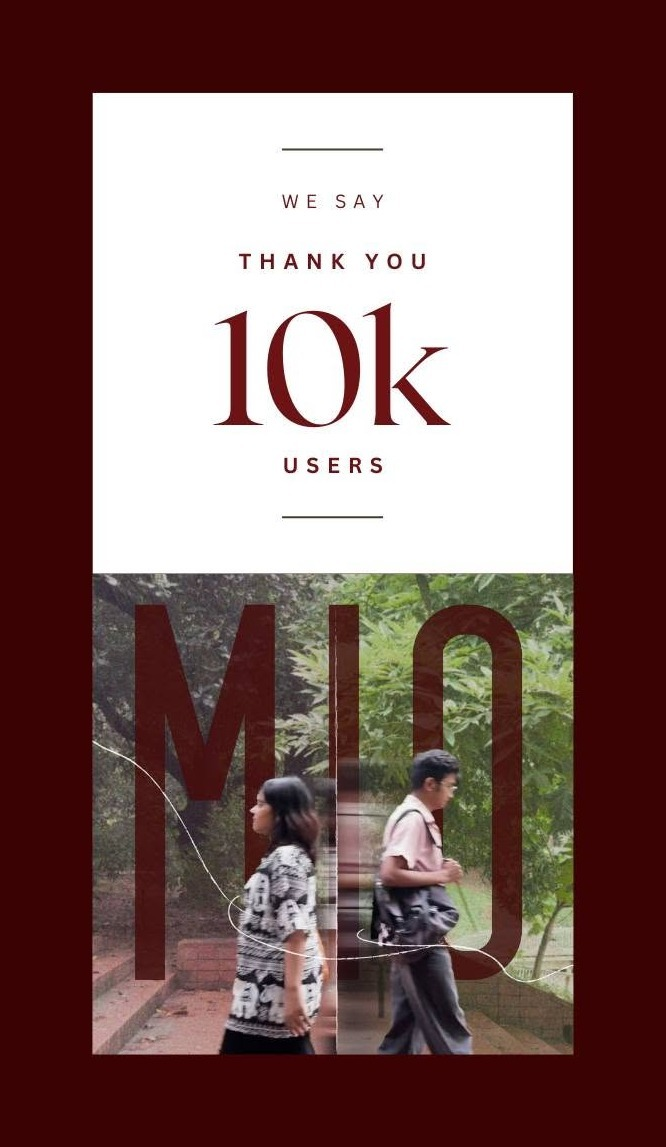
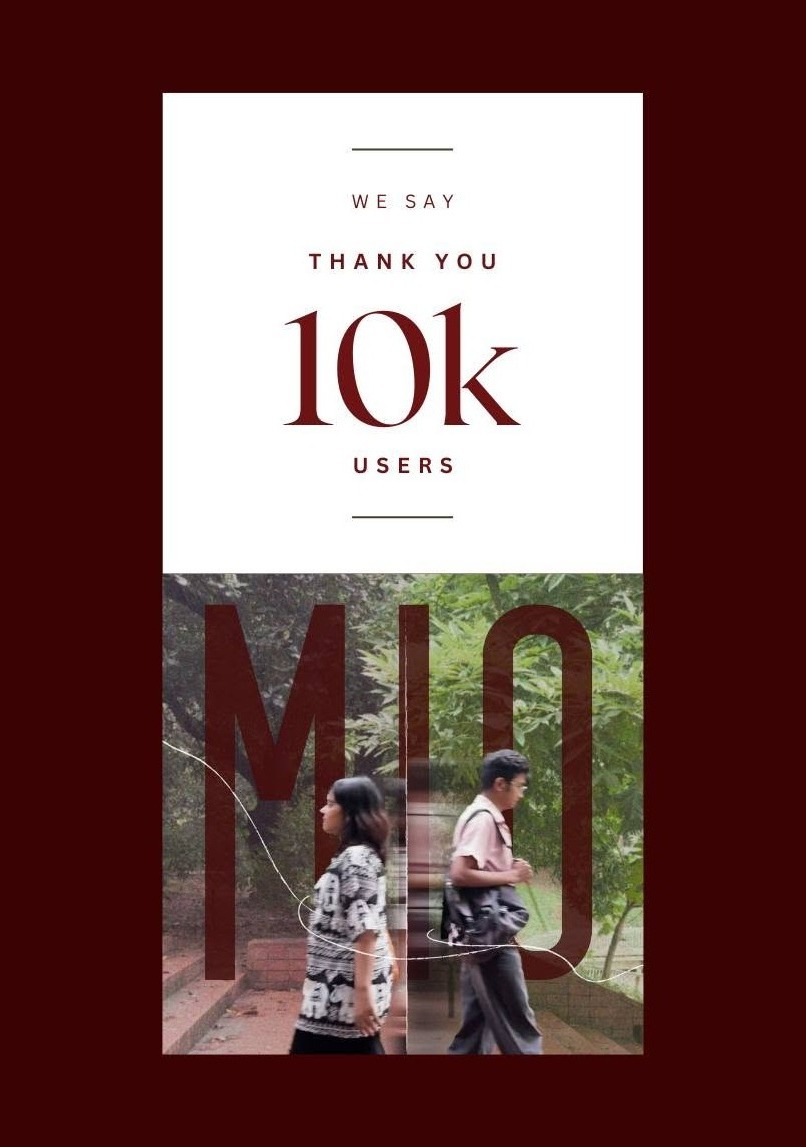
Widen promo images and shrink display size in README

diff --git a/README.md b/README.md
@@ -20,7 +20,7 @@ Get Mio on the [Google Play Store](https://play.google.com/store/apps/details?id
 
 <p align="center">
   <a href="https://play.google.com/store/apps/details?id=com.mioapp.social&pli=1">
-    <img src="Promo/AvailableInPlayStoreNow.jpg" width="640" />
+    <img src="Promo/AvailableInPlayStoreNow.jpg" width="480" />
   </a>
 </p>
 
@@ -233,5 +233,5 @@ MIT
 - GitHub: [AuvroIslam](https://github.com/AuvroIslam)
 
 <p align="center">
-  <img src="Promo/ThankYouFor10k.jpg" width="320" />
+  <img src="Promo/ThankYouFor10k.jpg" width="280" />
 </p>
